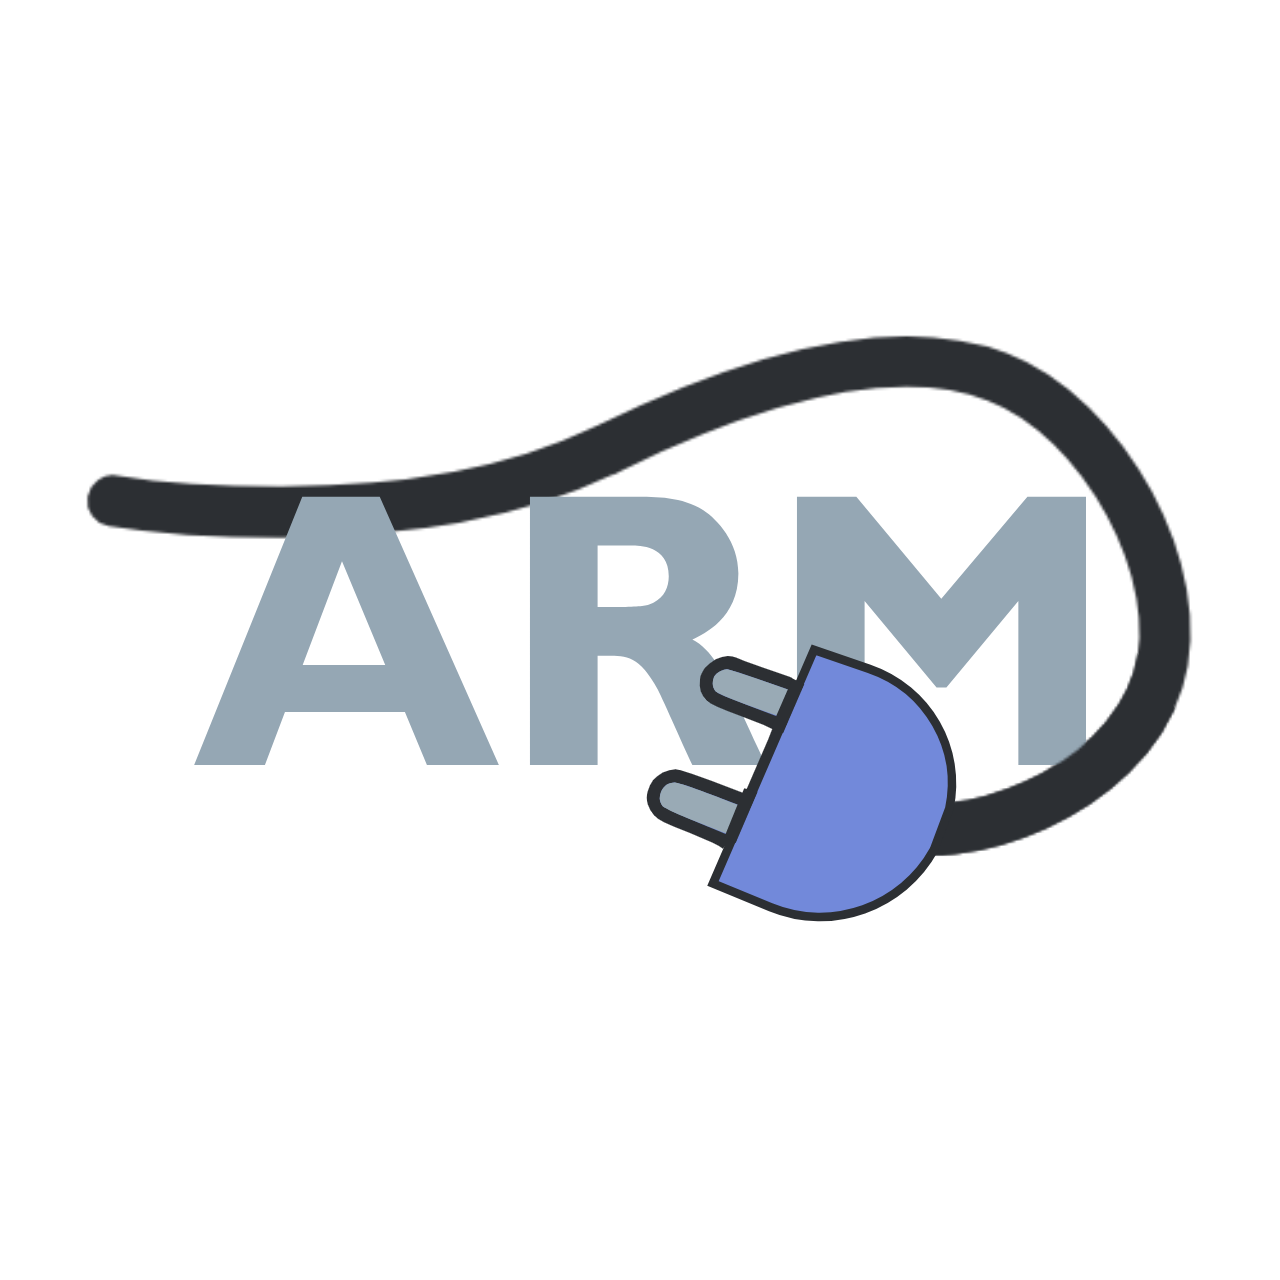
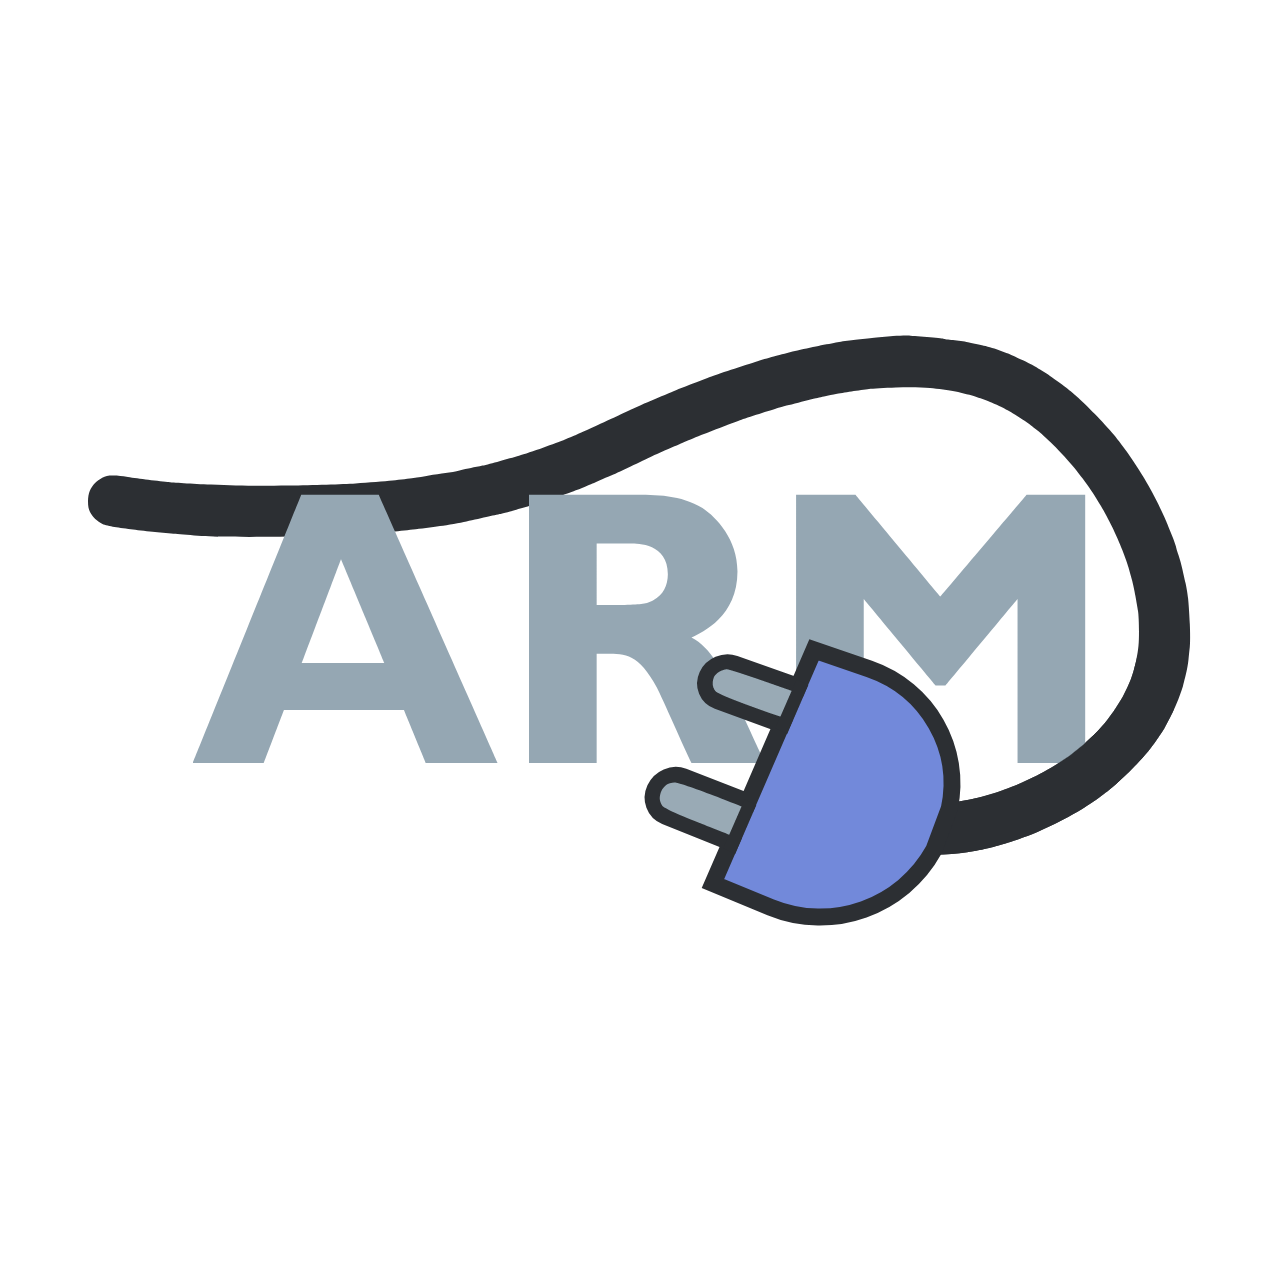
Update assets and add new ones

diff --git a/src/tray.ts b/src/tray.ts
@@ -6,7 +6,7 @@ import { createSettingsWindow } from "./settings/main";
 let tray: any = null;
 app.whenReady().then(async () => {
     if (await getConfig("windowStyle") == "discord") {
-        tray = new Tray(path.join(__dirname, "../", "/assets/ac_plug.png"));
+        tray = new Tray(path.join(__dirname, "../", "/assets/dsc-tray.png"));
         const contextMenu = Menu.buildFromTemplate([
             {
                 label: "Open ArmCord",

diff --git a/src/window.ts b/src/window.ts
@@ -8,6 +8,7 @@ import {checkIfConfigIsBroken, firstRun, getConfig, contentPath} from "./utils";
 import {registerIpc} from "./ipc";
 import startServer from "./socket"
 import contextMenu from "electron-context-menu";
+export var icon: string;
 export let mainWindow: BrowserWindow;
 export let inviteWindow: BrowserWindow;
 let guestWindows: BrowserWindow[] = [];
